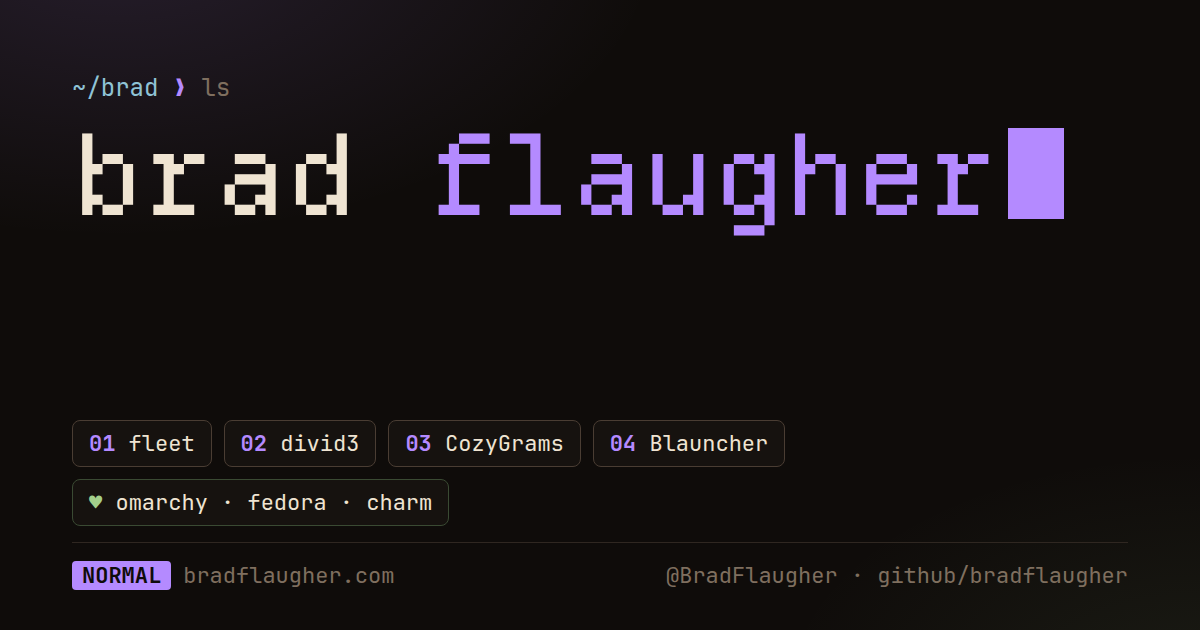
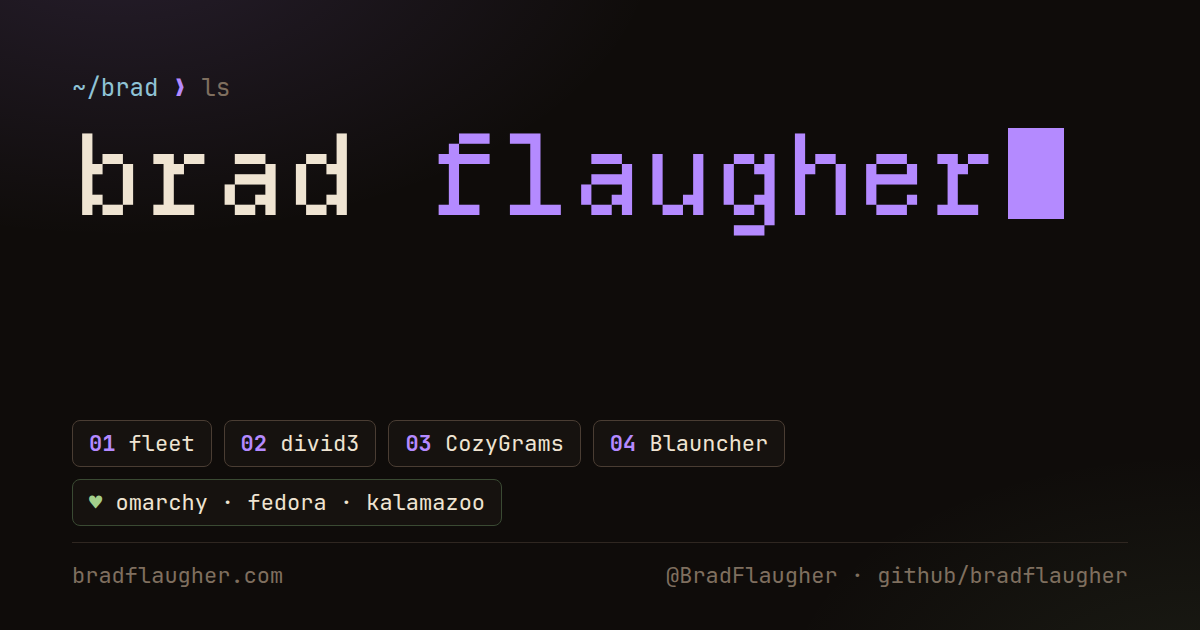
Remove Charm; collapse the footer (#289)
## Summary

Follow-up to #288.

- **Charm removed** from the support pane (now Omarchy, Fedora,
Kalamazoo College), from the meta descriptions, and from the OG image.
- **Footer collapsed** to two short segments: `bradflaugher.com · src`
on the left, `x · github` on the right. The NORMAL badge, license, and
city are gone. It fits on one line down to 320px. Key hints only render
at desktop widths with a fine pointer.
- **Fonts**: confirmed everything is already self-hosted under `/fonts`
as woff2 (JetBrains Mono, Departure Mono). No CDN references anywhere,
and the CSP's `font-src 'self'` would block one if it existed. No change
needed.

## Test plan
- [x] Rendered at 320 / 390 / 1280px, no overflow, footer one line, no
console errors
- [x] OG image re-rendered
- [ ] Check the live page after deploy

🤖 Generated with [Claude Code](https://claude.com/claude-code)

https://claude.ai/code/session_019FNH8RNUMMp2q28sVEthBi

---
_Generated by [Claude
Code](https://claude.ai/code/session_019FNH8RNUMMp2q28sVEthBi)_

Changed region(s): [[0.0617, 0.8746, 0.3392, 0.9349], [0.3083, 0.7841, 0.4008, 0.8143]]

diff --git a/index.html b/index.html
@@ -4,7 +4,7 @@
   <meta charset="UTF-8">
   <title>Brad Flaugher</title>
   <meta name="viewport" content="width=device-width, initial-scale=1.0, viewport-fit=cover">
-  <meta name="description" content="Projects I make: fleet, divid3, CozyGrams, Blauncher. Projects I support: Omarchy, Fedora, Charm.">
+  <meta name="description" content="Projects I make: fleet, divid3, CozyGrams, Blauncher. Projects I support: Omarchy, Fedora, Kalamazoo College.">
   <meta name="theme-color" content="#0f0c0a">
   <meta name="color-scheme" content="dark">
   <link rel="canonical" href="https://bradflaugher.com/">
@@ -26,12 +26,12 @@
   <meta property="og:type" content="website">
   <meta property="og:url" content="https://bradflaugher.com/">
   <meta property="og:title" content="Brad Flaugher">
-  <meta property="og:description" content="Projects I make: fleet, divid3, CozyGrams, Blauncher. Projects I support: Omarchy, Fedora, Charm.">
+  <meta property="og:description" content="Projects I make: fleet, divid3, CozyGrams, Blauncher. Projects I support: Omarchy, Fedora, Kalamazoo College.">
   <meta property="og:image" content="https://bradflaugher.com/og.png">
   <meta property="og:image:type" content="image/png">
   <meta property="og:image:width" content="1200">
   <meta property="og:image:height" content="630">
-  <meta property="og:image:alt" content="Terminal-style card: brad flaugher. Projects: fleet, divid3, CozyGrams, Blauncher. Supports Omarchy, Fedora, Charm.">
+  <meta property="og:image:alt" content="Terminal-style card: brad flaugher. Projects: fleet, divid3, CozyGrams, Blauncher. Supports Omarchy, Fedora, Kalamazoo College.">
 
   <!-- Twitter -->
   <meta name="twitter:card" content="summary_large_image">
@@ -39,9 +39,9 @@
   <meta name="twitter:creator" content="@BradFlaugher">
   <meta name="twitter:url" content="https://bradflaugher.com/">
   <meta name="twitter:title" content="Brad Flaugher">
-  <meta name="twitter:description" content="Projects I make: fleet, divid3, CozyGrams, Blauncher. Projects I support: Omarchy, Fedora, Charm.">
+  <meta name="twitter:description" content="Projects I make: fleet, divid3, CozyGrams, Blauncher. Projects I support: Omarchy, Fedora, Kalamazoo College.">
   <meta name="twitter:image" content="https://bradflaugher.com/og.png">
-  <meta name="twitter:image:alt" content="Terminal-style card: brad flaugher. Projects: fleet, divid3, CozyGrams, Blauncher. Supports Omarchy, Fedora, Charm.">
+  <meta name="twitter:image:alt" content="Terminal-style card: brad flaugher. Projects: fleet, divid3, CozyGrams, Blauncher. Supports Omarchy, Fedora, Kalamazoo College.">
 
   <style>
     @font-face {
@@ -305,15 +305,11 @@
       max-width: 78ch; margin: 0 auto;
       display: flex; flex-wrap: wrap; justify-content: space-between; gap: 6px 16px;
     }
-    .status .seg { display: inline-flex; flex-wrap: wrap; align-items: center; gap: 4px 1ch; }
-    .status .mode {
-      background: var(--accent); color: var(--bg); font-weight: 700;
-      padding: 0 8px; border-radius: 3px; letter-spacing: 0.04em;
-    }
+    .status .seg { display: inline-flex; align-items: center; gap: 1ch; white-space: nowrap; }
     .status a { color: var(--fg-dim); }
     .status a:hover { color: var(--accent); }
     .status .keys { display: none; }
-    @media (hover: hover) and (pointer: fine) { .status .keys { display: inline-flex; } }
+    @media (hover: hover) and (pointer: fine) and (min-width: 640px) { .status .keys { display: inline-flex; } }
     .status kbd {
       font-family: inherit; font-size: 0.95em;
       border: 1px solid var(--line-hi); border-bottom-width: 2px; border-radius: 3px;
@@ -437,7 +433,7 @@
 
     <!-- ============ support ============ -->
     <section class="pane pane--support" id="support" aria-labelledby="support-title">
-      <h2 class="pane__title" id="support-title"><b>support</b> <span>things I back</span> <span class="count">[4]</span></h2>
+      <h2 class="pane__title" id="support-title"><b>support</b> <span>things I back</span> <span class="count">[3]</span></h2>
       <ol class="list" data-nav>
         <li class="item">
           <a class="item__link" href="https://omarchy.org" rel="noopener">
@@ -462,20 +458,7 @@
               <ul class="item__tags" aria-label="tags"><li>linux</li><li>rpm</li><li>upstream</li></ul>
             </div>
           </a>
-        </li>
-        <li class="item">
-          <a class="item__link" href="https://charm.land" rel="noopener">
-            <div class="item__body">
-              <div class="item__head">
-                <span class="item__name">Charm</span>
-                <span class="item__host">charm.land</span>
-              </div>
-              <p class="item__desc">Bubble Tea, Lip Gloss, Glow, Crush. <strong>The toolkit for terminal UIs.</strong></p>
-              <ul class="item__tags" aria-label="tags"><li>tui</li><li>go</li><li>cli</li></ul>
-            </div>
-          </a>
-        </li>
-        <li class="item">
+        </li><li class="item">
           <a class="item__link" href="https://www.kzoo.edu/news/complex-systems-studies-professor/" rel="noopener">
             <div class="item__body">
               <div class="item__head">
@@ -494,9 +477,9 @@
   <!-- ============ status bar ============ -->
   <footer class="status">
     <div class="status__inner">
-      <span class="seg"><span class="mode">NORMAL</span> <span>bradflaugher.com</span> <span aria-hidden="true">·</span> <a href="https://github.com/bradflaugher/bradflaugher.com" rel="noopener">src</a> <span aria-hidden="true">·</span> <span>gpl-3.0</span></span>
+      <span class="seg"><span>bradflaugher.com</span> <span aria-hidden="true">·</span> <a href="https://github.com/bradflaugher/bradflaugher.com" rel="noopener">src</a></span>
       <span class="seg keys" aria-hidden="true"><kbd>j</kbd><kbd>k</kbd> move <kbd>↵</kbd> open <kbd>?</kbd> help</span>
-      <span class="seg"><a href="https://x.com/BradFlaugher" rel="me noopener">x</a> <span aria-hidden="true">·</span> <a href="https://github.com/bradflaugher" rel="me noopener">github</a> <span aria-hidden="true">·</span> <span>philly</span></span>
+      <span class="seg"><a href="https://x.com/BradFlaugher" rel="me noopener">x</a> <span aria-hidden="true">·</span> <a href="https://github.com/bradflaugher" rel="me noopener">github</a></span>
     </div>
   </footer>
 
